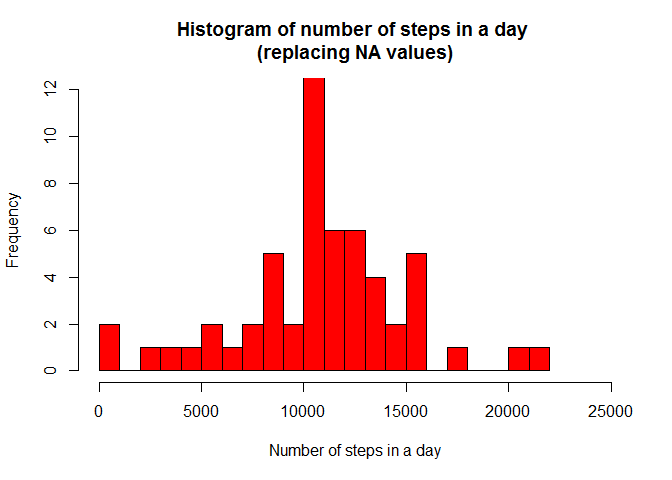
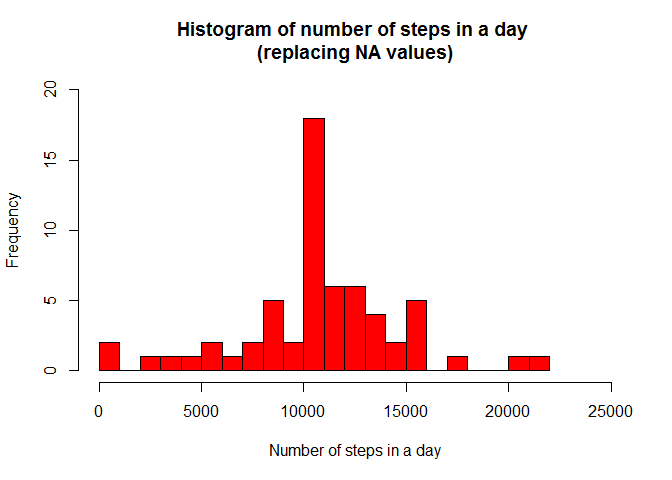
Updated figures

diff --git a/PA1_template.html b/PA1_template.html
@@ -59,20 +59,20 @@ if (window.hljs && document.readyState && document.readyState === "complete") {
 <p>The goal was to analyse the total number of steps taken per day and per time interval, over a 2 month period (October and November 2012)</p>
 <div id="loading-and-preprocessing-the-data" class="section level2">
 <h2>Loading and preprocessing the data</h2>
-<p>For the first part of the analysis, I unzipped the raw data and read the csv-formatted data</p>
+<p>For the first part of the analysis, I unzipped the raw data and read the csv-formatted data. As the first part of the analysis will ignore NA values, I seperate the data set into those elements that contain NA values and those that do not.</p>
 <pre class="r"><code>fname &lt;- &quot;activity.zip&quot;
 if (!file.exists(fname))
     print(&quot;Cannot find zip data file in local directory&quot;)
 unzip(fname)
 ## After unzipping, read the data in CSV format
-activity &lt;- read.csv(&quot;activity.csv&quot;)</code></pre>
+activity &lt;- read.csv(&quot;activity.csv&quot;)
+values &lt;- activity[!is.na(activity$steps),]
+na_values &lt;- activity[is.na(activity$steps),]</code></pre>
 </div>
 <div id="what-is-the-average-daily-activity-pattern" class="section level2">
 <h2>What is the average daily activity pattern?</h2>
-<p>For the initial analysis of the data, NA data is ignored. I create a new data structure that just includes the non-NA data, and use that data to plot a histogram that shows the total number of steps taken per day.</p>
-<pre class="r"><code>values &lt;- activity[!is.na(activity$steps),]
-
-## Calculate the total number of steps by date
+<p>For the initial analysis of the data, NA data is ignored. I use the non-NA data to plot a histogram that shows the total number of steps taken per day.</p>
+<pre class="r"><code>## Calculate the total number of steps by date
 daily_totals &lt;- data.frame(unlist(lapply(split(values, values$date), function(x) sum(x$steps))))
 names(daily_totals) &lt;- &quot;total_steps&quot;
 hist(as.numeric(daily_totals$total_steps), breaks = 20, xlim = c(0,25000), ylim = c(0,12), col = &quot;red&quot;,
@@ -119,25 +119,22 @@ max &lt;- strptime(sprintf(&quot;%04d&quot;, as.numeric(n[x])), format=&quot;%H%
 t &lt;- as.POSIXlt(max)
 print(paste(&quot;Time interval with highest total number of steps is &quot;,t$hour,&quot;:&quot;, t$min, sep=&quot;&quot;))</code></pre>
 <pre><code>## [1] &quot;Time interval with highest total number of steps is 8:35&quot;</code></pre>
-<p>The time interval with the highest total number of steps occurs at 8:35, and that 10927 steps were taken in total during that time interval over the observed period.</p>
+<p>The time interval with the highest total number of steps occurs at 8:35, and that a total of 10927 steps were taken during that time interval over the observed period.</p>
 </div>
 <div id="imputing-missing-values" class="section level2">
 <h2>Imputing missing values</h2>
 <p>In the analysis so far, I have ignored time intervals that contained NA values. I calculate the number of NA values in the original data set.</p>
 <pre class="r"><code>## How many time intervals have NA values ?
-s &lt;- sum(is.na(activity$steps))
+s &lt;- nrow(na_values)
 print(paste(&quot;There are&quot;,s,&quot;time intervals with NA values&quot;))</code></pre>
 <pre><code>## [1] &quot;There are 2304 time intervals with NA values&quot;</code></pre>
-<p>I create a new data set in which all of NA values are replaced by the mean value for the same interval.</p>
-<pre class="r"><code>## Replace each NA value by the mean value for the same interval 
-## on other dates
-activity2 &lt;- activity
-for (k in 1:nrow(activity2)) {
-  if (is.na(activity2[k,&quot;steps&quot;])) {    
-        t &lt;- activity2[k,&quot;interval&quot;]
-        activity2[k,&quot;steps&quot;] &lt;- interval_means[as.character(t),&quot;mean_steps&quot;]
+<p>I create a new data set in which all of NA values are replaced by the mean value for the same interval. To do this, I replace the NA values in the na_values data set by the mean value for the equivalent time interval, and then combine the resulting data set with the original non-NA values.</p>
+<pre class="r"><code>## Replace each NA value by the mean value for the same interval on other dates
+for (k in 1:nrow(na_values)) {  
+        t &lt;- na_values[k,&quot;interval&quot;]
+        na_values[k,&quot;steps&quot;] &lt;- interval_means[as.character(t),&quot;mean_steps&quot;]
         }
-    }</code></pre>
+activity2 &lt;- rbind(values, na_values)</code></pre>
 <p>We can now draw a new histogram of total daily steps, and calculate the updated mean and median number of daily steps, using the updated data set, to see the impact of replacing NA values with calculated values.</p>
 <pre class="r"><code>## Calculate the total number of steps by date
 daily_totals2 &lt;- data.frame(unlist(lapply(split(activity2, activity2$date), function(x) sum(x$steps))))
@@ -148,11 +145,11 @@ print(paste(&quot;Mean number of daily steps is&quot;, mn2))</code></pre>
 <pre class="r"><code>md2 &lt;- median(daily_totals2$total_steps)
 print(paste(&quot;Median number of daily steps is&quot;, md2))</code></pre>
 <pre><code>## [1] &quot;Median number of daily steps is 10766.1886792453&quot;</code></pre>
-<pre class="r"><code>hist(as.numeric(daily_totals2$total_steps), breaks = 20, xlim = c(0,25000), ylim = c(0,12), col = &quot;red&quot;,
+<pre class="r"><code>hist(as.numeric(daily_totals2$total_steps), breaks = 20, xlim = c(0,25000), ylim = c(0,20), col = &quot;red&quot;,
     main = &quot;Histogram of number of steps in a day \n(replacing NA values)&quot;,
     xlab = &quot;Number of steps in a day&quot;)</code></pre>
[1 lines of base64/hex data omitted]
-<p>We can see that, having replaced the NA values with calculated values, the mean number of steps taken in a day has increased to approximately 10766, while the median of the number of daily steps is identical to the mean (10766) Also, there are now only 2 days with fewer than 1000 steps.</p>
[1 lines of base64/hex data omitted]
+<p>We can see that, having replaced the NA values with calculated values, the mean number of steps taken in a day has increased to approximately 10766, while the median of the number of daily steps is identical to the mean (10766). Also, there are now only 2 days with fewer than 1000 steps.</p>
 </div>
 <div id="are-there-differences-in-activity-patterns-between-weekdays-and-weekends" class="section level2">
 <h2>Are there differences in activity patterns between weekdays and weekends?</h2>

diff --git a/PA1_template.md b/PA1_template.md
@@ -8,7 +8,8 @@ This is a summary of my analysis of the fitness activity data.
 The goal was to analyse the total number of steps taken per day and per time interval, over a 2 month period (October and November 2012)
 
 ## Loading and preprocessing the data
-For the first part of the analysis, I unzipped the raw data and read the csv-formatted data
+For the first part of the analysis, I unzipped the raw data and read the csv-formatted data. As the first part of the analysis will ignore NA values, I seperate the data set into those elements that contain NA values and those that do not.
+
 
 ```r
 fname <- "activity.zip"
@@ -17,16 +18,16 @@ if (!file.exists(fname))
 unzip(fname)
 ## After unzipping, read the data in CSV format
 activity <- read.csv("activity.csv")
+values <- activity[!is.na(activity$steps),]
+na_values <- activity[is.na(activity$steps),]
 ```
 
 ## What is the average daily activity pattern?
 
-For the initial analysis of the data, NA data is ignored. I create a new data structure that just includes the non-NA data, and use that data to plot a histogram that shows the total number of steps taken per day. 
+For the initial analysis of the data, NA data is ignored. I use the non-NA data to plot a histogram that shows the total number of steps taken per day. 
 
 
 ```r
-values <- activity[!is.na(activity$steps),]
-
 ## Calculate the total number of steps by date
 daily_totals <- data.frame(unlist(lapply(split(values, values$date), function(x) sum(x$steps))))
 names(daily_totals) <- "total_steps"
@@ -105,7 +106,7 @@ print(paste("Time interval with highest total number of steps is ",t$hour,":", t
 ## [1] "Time interval with highest total number of steps is 8:35"
 ```
 
-The time interval with the highest total number of steps occurs at 8:35, and that 10927 steps were taken in total during that time interval over the observed period.
+The time interval with the highest total number of steps occurs at 8:35, and that a total of 10927 steps were taken during that time interval over the observed period.
 
 ## Imputing missing values
 
@@ -113,7 +114,7 @@ In the analysis so far, I have ignored time intervals that contained NA values. 
 
 ```r
 ## How many time intervals have NA values ?
-s <- sum(is.na(activity$steps))
+s <- nrow(na_values)
 print(paste("There are",s,"time intervals with NA values"))
 ```
 
@@ -121,18 +122,15 @@ print(paste("There are",s,"time intervals with NA values"))
 ## [1] "There are 2304 time intervals with NA values"
 ```
 
-I create a new data set in which all of NA values are replaced by the mean value for the same interval. 
+I create a new data set in which all of NA values are replaced by the mean value for the same interval. To do this, I replace the NA values in the na_values data set by the mean value for the equivalent time interval, and then combine the resulting data set with the original non-NA values.
 
 ```r
-## Replace each NA value by the mean value for the same interval 
-## on other dates
-activity2 <- activity
-for (k in 1:nrow(activity2)) {
-  if (is.na(activity2[k,"steps"])) {	
-		t <- activity2[k,"interval"]
-		activity2[k,"steps"] <- interval_means[as.character(t),"mean_steps"]
+## Replace each NA value by the mean value for the same interval on other dates
+for (k in 1:nrow(na_values)) {	
+		t <- na_values[k,"interval"]
+		na_values[k,"steps"] <- interval_means[as.character(t),"mean_steps"]
 		}
-	}
+activity2 <- rbind(values, na_values)
 ```
 
 We can now draw a new histogram of total daily steps, and calculate the updated mean and median number of daily steps, using the updated data set, to see the impact of replacing NA values with calculated values.
@@ -159,14 +157,14 @@ print(paste("Median number of daily steps is", md2))
 ```
 
 ```r
-hist(as.numeric(daily_totals2$total_steps), breaks = 20, xlim = c(0,25000), ylim = c(0,12), col = "red",
+hist(as.numeric(daily_totals2$total_steps), breaks = 20, xlim = c(0,25000), ylim = c(0,20), col = "red",
     main = "Histogram of number of steps in a day \n(replacing NA values)",
     xlab = "Number of steps in a day")
 ```
 
 ![](./PA1_template_files/figure-html/unnamed-chunk-8-1.png) 
 
-We can see that, having replaced the NA values with calculated values, the mean number of steps taken in a day has increased to approximately 10766, while the median of the number of daily steps is identical to the mean (10766) Also, there are now only 2 days with fewer than 1000 steps.
+We can see that, having replaced the NA values with calculated values, the mean number of steps taken in a day has increased to approximately 10766, while the median of the number of daily steps is identical to the mean (10766). Also, there are now only 2 days with fewer than 1000 steps.
 
 ## Are there differences in activity patterns between weekdays and weekends?
 For the final part of the analysis, I split the data set into weekdays (Monday to Friday) and weekends (Saturday and Sunday), to see if average daily activity pattern different between weekdays and weekends.
